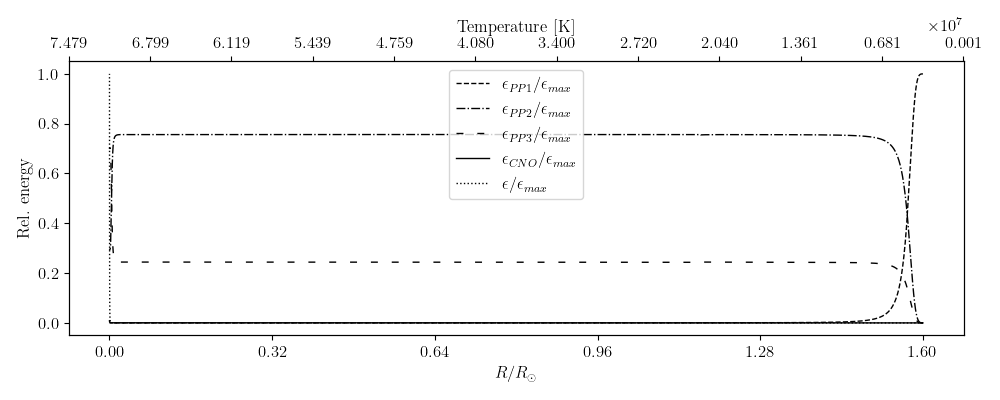
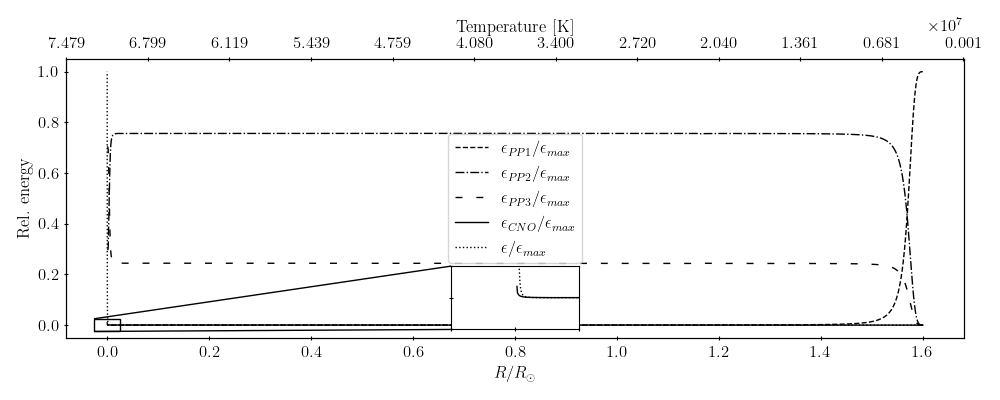
Tweaks

diff --git a/energy-transport/star_model.py b/energy-transport/star_model.py
@@ -9,11 +9,15 @@ from scipy.interpolate import RectBivariateSpline
 from scipy.integrate import solve_ivp
 import scipy.constants as const 
 from scipy.stats import chisquare as chi
+from mpl_toolkits.axes_grid1.inset_locator import zoomed_inset_axes
+from mpl_toolkits.axes_grid1.inset_locator import mark_inset
 
 plt.rcParams['lines.linewidth'] = 1
 plt.rcParams['font.size'] = 12
 plt.rcParams['text.usetex'] = True
 plt.rcParams['font.family'] = 'Helvetica'
+plt.rcParams['xtick.direction'] = 'inout'
+plt.rcParams['ytick.direction'] = 'inout'
 
 # Sun parameters 
 L_sun = 3.846e26		# [W]
@@ -53,7 +57,7 @@ best.integrate_equtations(p=1e-2, include_cycles=True)
 m, r, P, L, T, rho, nabla_star, nabla_stable, F_rad, F_con, eps, PP1, PP2, PP3, CNO = best.get_arrays(include_cycles=True)
 
 r_plot = r/R_sun
-ticks = np.linspace(r_plot[-1], r_plot[0], 6)
+ticks = np.linspace(r_plot[-1], r_plot[0], 9)
 
 F_con_fraction = F_con / (F_rad + F_con)
 F_rad_fraction = F_rad / (F_rad + F_con)
@@ -70,45 +74,70 @@ R_core = r[(L < .995 * L[0])][0] / r[0]
 con_width_range = r[np.logical_and(F_con > 0, r > r[0]/2)]
 con_width = (con_width_range[0] - con_width_range[-1]) / r[0]
 
-print(f'\nCore luminosity:\t{L_core*100:7.2e} % of L_0')
-print(f'Core radius:\t\t{R_core*100:7.2e} % of R_0')
-print(f'Surface con. width:\t{con_width*100:7.2e} % of R_0\n')
+print(f'\nCore luminosity:\t{L_core*100:8.3e} % of L_0')
+print(f'Core radius:\t\t{R_core*100:8.3e} % of R_0')
+print(f'Surface con. width:\t{con_width*100:8.3e} % of R_0')
+print(f'Final temperature:\t{T[-1]:8.3e} K\n')
 
-gridspec = dict(hspace=0, height_ratios=[1, 1, .4, 1])
-fig, axes = plt.subplots(4, 1, figsize=(9, 7), gridspec_kw=gridspec)
+with plt.rc_context({'font.size': 15, 'figure.figsize': (8, 6)}):
 
-axes[0].plot(r_plot, T, ls='solid', color='black', label=r'$T$')
-axes[0].legend()
-axes[0].set_xticklabels([])
+	gridspec = dict(hspace=0, height_ratios=[1, 1, .4, 1])
+	fig, axes = plt.subplots(4, 1, gridspec_kw=gridspec)
 
-axes[1].plot(r_plot, m/M_sun, ls='solid', color='black', label=r'$M/M_\odot$')
-axes[1].plot(r_plot, L/L_sun, ls='dashed', color='black', label=r'$L/L_\odot$')
-axes[1].legend()
-axes[1].set_xticks(ticks)
-axes[1].set_xlabel(r'$R/R_\odot$')
+	axes[0].plot(r_plot, T, ls='solid', color='black', label=r'$T$')
+	axes[0].legend()
+	axes[0].set_xticklabels([])
 
-axes[2].set_visible(False)
+	axes[1].plot(r_plot, m/M_sun, ls='solid', color='black', label=r'$M/M_\odot$')
+	axes[1].plot(r_plot, L/L_sun, ls='dashed', color='black', label=r'$L/L_\odot$')
+	axes[1].legend()
+	axes[1].set_xticks(ticks)
+	axes[1].set_xlabel(r'$R/R_\odot$')
 
-axes[3].plot(r_plot, rho/avgRho_sun, ls='solid', color='black', label=r'$\rho/\bar{\rho}_\odot$')
-axes[3].plot(r_plot, P, ls='dashed', color='black', label=r'$P$')
-axes[3].legend()
-axes[3].set_xscale('log')
-axes[3].set_yscale('log')
-axes[3].set_xlabel(r'$\log_{10}(R/R_\odot)$')
-fig.savefig('figures/best_fit_T-M-L-rho-P.pdf')
-fig.savefig('figures/best_fit_T-M-L-rho-P.png')
+	axes[2].set_visible(False)
 
-fig, ax = plt.subplots(figsize=(10, 4))
+	axes[3].plot(r_plot, rho/avgRho_sun, ls='solid', color='black', label=r'$\rho/\bar{\rho}_\odot$')
+	axes[3].plot(r_plot, P, ls='dashed', color='black', label=r'$P$')
+	axes[3].legend()
+	axes[3].set_xscale('log')
+	axes[3].set_yscale('log')
+	axes[3].set_xlabel(r'$\log_{10}(R/R_\odot)$')
+	fig.savefig('figures/best_fit_T-M-L-rho-P.pdf')
+	fig.savefig('figures/best_fit_T-M-L-rho-P.png')
 
-ax.plot(r_plot, F_con_fraction, ls='solid', color='black', label=r'$F_{con}$')
-ax.plot(r_plot, F_rad_fraction, ls='dashed', color='black', label=r'$F_{rad}$')
-ax.legend()
-ax.set_xlabel(r'$R/R_\odot$')
-ax.set_ylabel(r'Fraction of $F_i$')
-ax.set_xticks(ticks)
-fig.tight_layout()
-fig.savefig('figures/flux-fraction.pdf')
-fig.savefig('figures/flux-fraction.png')
+	fig, ax = plt.subplots()
+
+	ax.plot(r_plot, F_con_fraction, ls='solid', color='black', label=r'$F_{con}$')
+	ax.plot(r_plot, F_rad_fraction, ls='dashed', color='black', label=r'$F_{rad}$')
+	ax.legend()
+	ax.set_xlabel(r'$R/R_\odot$')
+	ax.set_ylabel(r'Fraction of $F_i$')
+	ax.set_xticks(ticks)
+	fig.tight_layout()
+	fig.savefig('figures/flux-fraction.pdf')
+	fig.savefig('figures/flux-fraction.png')
+
+	fig, ax = plt.subplots()
+	ax.plot(r_plot, nabla_star, ls='solid', color='black', label=r'$\nabla^*$')
+	ax.plot(r_plot, nabla_stable, ls='dashed', color='black', label=r'$\nabla_{stable}$')
+	ax.plot(r_plot, nabla_ad * np.ones(len(r_plot)), ls='dotted', color='black', label=r'$\nabla_{ad}$')
+	ax.legend()
+	ax.set_xticks(ticks)
+	ax.set_xlabel(r'$R/R_\odot$')
+	ax.set_ylabel(r'$\nabla_i$')
+	ax.set_ylim([1e-1, 1e5])
+	ax.set_yscale('log')
+	fig.tight_layout()
+	fig.savefig('figures/gradients-final.pdf')
+	fig.savefig('figures/gradients-final.png')
+
+	fig, ax = plt.subplots()
+	ax.plot(P*10, rho*1e-3, color='black')
+	ax.set_xlabel(r'$P$ [cgs]')
+	ax.set_ylabel(r'$\rho$ [cgs]')
+	ax.set_xscale('log')
+	ax.set_yscale('log')
+
 
 fig, ax = plt.subplots(figsize=(10, 4))
 ax.plot(r_plot[plot_idx], PP1_rel, ls='dashed', color='black', label=r'$\epsilon_{PP1}/\epsilon_{max}$')
@@ -116,6 +145,13 @@ ax.plot(r_plot[plot_idx], PP2_rel, ls='dashdot', color='black', label=r'$\epsilo
 ax.plot(r_plot[plot_idx], PP3_rel, ls=(0, (5, 10)), color='black', label=r'$\epsilon_{PP3}/\epsilon_{max}$')
 ax.plot(r_plot[plot_idx], CNO_rel, ls='solid', color='black', label=r'$\epsilon_{CNO}/\epsilon_{max}$')
 ax.plot(r_plot[plot_idx], (eps/np.max(eps))[plot_idx], ls='dotted', color='black', label=r'$\epsilon/\epsilon_{max}$')
+axins = zoomed_inset_axes(ax, 5, loc='lower center')
+axins.plot(r_plot[plot_idx], CNO_rel, ls='solid', color='black')
+axins.plot(r_plot[plot_idx], (eps/np.max(eps))[plot_idx], ls='dotted', color='black')
+axins.set_xlim([-.025, .025])
+axins.set_ylim([-.025, .025])
+axins.tick_params(labelleft=False, labelbottom=False)
+mark_inset(ax, axins, loc1=2, loc2=3)
 ax2 = ax.twiny()
 ax2.set_xticks(np.linspace(T[0], T[-1], 12))
 ax2.invert_xaxis()
@@ -128,17 +164,7 @@ fig.tight_layout()
 fig.savefig('figures/rel-energy.pdf')
 fig.savefig('figures/rel-energy.png')
 
-fig, ax = plt.subplots(figsize=(10,4))
-ax.plot(r_plot, nabla_star, ls='solid', color='black', label=r'$\nabla^*$')
-ax.plot(r_plot, nabla_stable, ls='dashed', color='black', label=r'$\nabla_{stable}$')
-ax.plot(r_plot, nabla_ad * np.ones(len(r_plot)), ls='dotted', color='black', label=r'$\nabla_{ad}$')
-ax.legend()
-ax.set_xlabel(r'$R/R_\odot$')
-ax.set_ylabel(r'$\nabla_i$')
-ax.set_yscale('log')
-fig.tight_layout()
-fig.savefig('figures/gradients-final.pdf')
-fig.savefig('figures/gradients-final.png')
+
 
 cross_section(r, L, F_con, savefig=True)
 

diff --git a/energy-transport/energy_transport.py b/energy-transport/energy_transport.py
@@ -326,9 +326,9 @@ class Star:
 		if output:
 			
 			print(f'\nFinal values after {i-1} iterations:')
-			print(f'M/M_0: {self.m[-2]/self.m[0]*100:4.1f} %. M = {self.m[-2]:.3e} kg')
-			print(f'R/R_0: {self.r[-2]/self.r[0]*100:4.1f} %. R = {self.r[-2]:.3e} m')
-			print(f'L/L_0: {self.L[-2]/self.L[0]*100:4.1f} %. L = {self.L[-2]:.3e} W')
+			print(f'M/M_0: {self.m[-2]/self.m[0]*100:7.3f} %. M = {self.m[-2]:.3e} kg')
+			print(f'R/R_0: {self.r[-2]/self.r[0]*100:7.3f} %. R = {self.r[-2]:.3e} m')
+			print(f'L/L_0: {self.L[-2]/self.L[0]*100:7.3f} %. L = {self.L[-2]:.3e} W')
 
 
 	def get_arrays(self, include_cycles=False):
@@ -403,6 +403,8 @@ if __name__ == '__main__':
 	test.integrate_equtations(p=1e-2)
 
 	m, r, P, L, T, rho, nabla_star, nabla_stable, F_rad, F_con, eps = test.get_arrays()
+	kappa = test.opacity(rho, T)
+	plt.plot(r/np.max(r), kappa/np.max(kappa))
 
 	iterations = np.linspace(0, len(m), len(m))
 
@@ -451,7 +453,7 @@ if __name__ == '__main__':
 
 	cross_section(r, L, F_con, sanity=True, savefig=True)
 
-	fig1, axes = plt.subplots(2, 2, figsize=(16 * 2/3, 9 * 2/3))
+	fig1, axes = plt.subplots(2, 2, figsize=(12, 5), sharex=True, sharey=True)
 	ax = axes.flatten()
 
 	title_list = [r'$2R_0, 5R_0, 10R_0$', r'$2T_0, 5T_0, 10T_0$', \
@@ -491,14 +493,20 @@ if __name__ == '__main__':
 
 			iterations = np.linspace(0, len(m), len(m))		
 
-			ax[i].plot(iterations, m/np.max(m), ls='solid', color='black')
-			ax[i].plot(iterations, r/np.max(r), ls='dashed', color='black')
-			ax[i].plot(iterations, L/np.max(L), ls='dashdot', color='black')
+			ax[i].plot(r/np.max(r), m/np.max(m), ls='solid', color='black')
+			ax[i].plot(r/np.max(r), r/np.max(r), ls='dashed', color='black')
+			ax[i].plot(r/np.max(r), L/np.max(L), ls='dashdot', color='black')
 
+		ax[i].tick_params(direction='inout', top=True, right=True)
 		ax[i].set_title(title_list[i])
 		ax[i].legend(label_list)
 
-	fig1.tight_layout()
+	ax[0].tick_params(labeltop=True)
+	ax[1].tick_params(labeltop=True, labelright=True)
+	ax[3].tick_params(labelright=True)
+	ax[2].set_xlabel(r'$R/R_{max}$')
+	ax[3].set_xlabel(r'$R/R_{max}$')
+	fig1.subplots_adjust(hspace=0, wspace=0)
 	fig1.savefig('figures/testing/variable-params.pdf')
 	fig1.savefig('figures/testing/variable-params.png')
 
